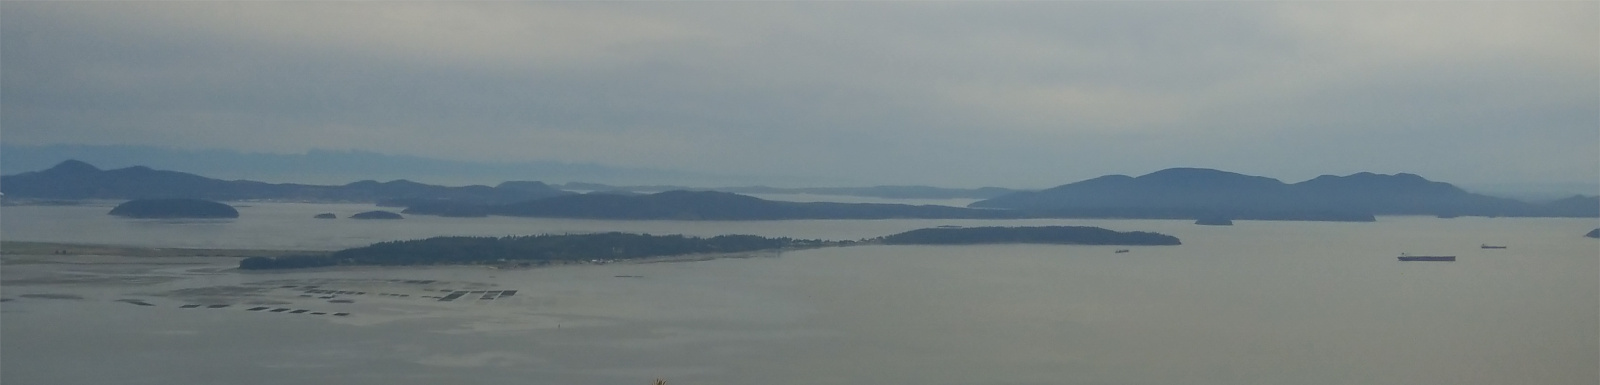
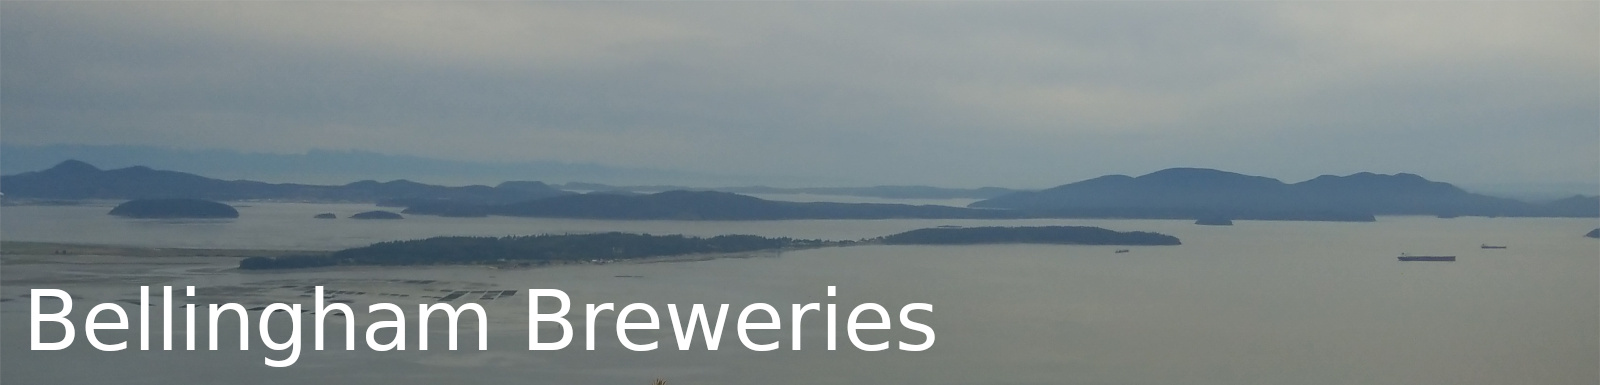
fixed header image

Changed region(s): [[0.0, 0.7481, 0.5938, 0.9662]]

diff --git a/src/index.css b/src/index.css
@@ -98,16 +98,6 @@ a.brewery-link:hover {
   position: relative;
 }
 
-.header-text {
-  position: absolute;
-  bottom: 0;
-  color: white;
-  background-color: rgba(0, 0, 0, 0);
-  z-index: 1;
-  margin: 0 0 0 24px;
-  font-size: 60px;
-}
-
 .list-text {
   padding: 24px 60px 16px 60px;
   font-size: 24px;
@@ -125,5 +115,5 @@ a.brewery-link:hover {
   position: relative;
   width: 100%;
   min-width: 575px;
-  opacity: .5;
+  opacity: .7;
 }

diff --git a/src/components/PageHeader.js b/src/components/PageHeader.js
@@ -4,7 +4,6 @@ import bhambay from "../bhambay.jpg"
 const PageHeader = () => {
     return (
         <div className="page-header">
-            <h1 className="header-text">Breweries of Bellingham</h1>
             <img className="main-image" src={bhambay} />
         </div>
     )
